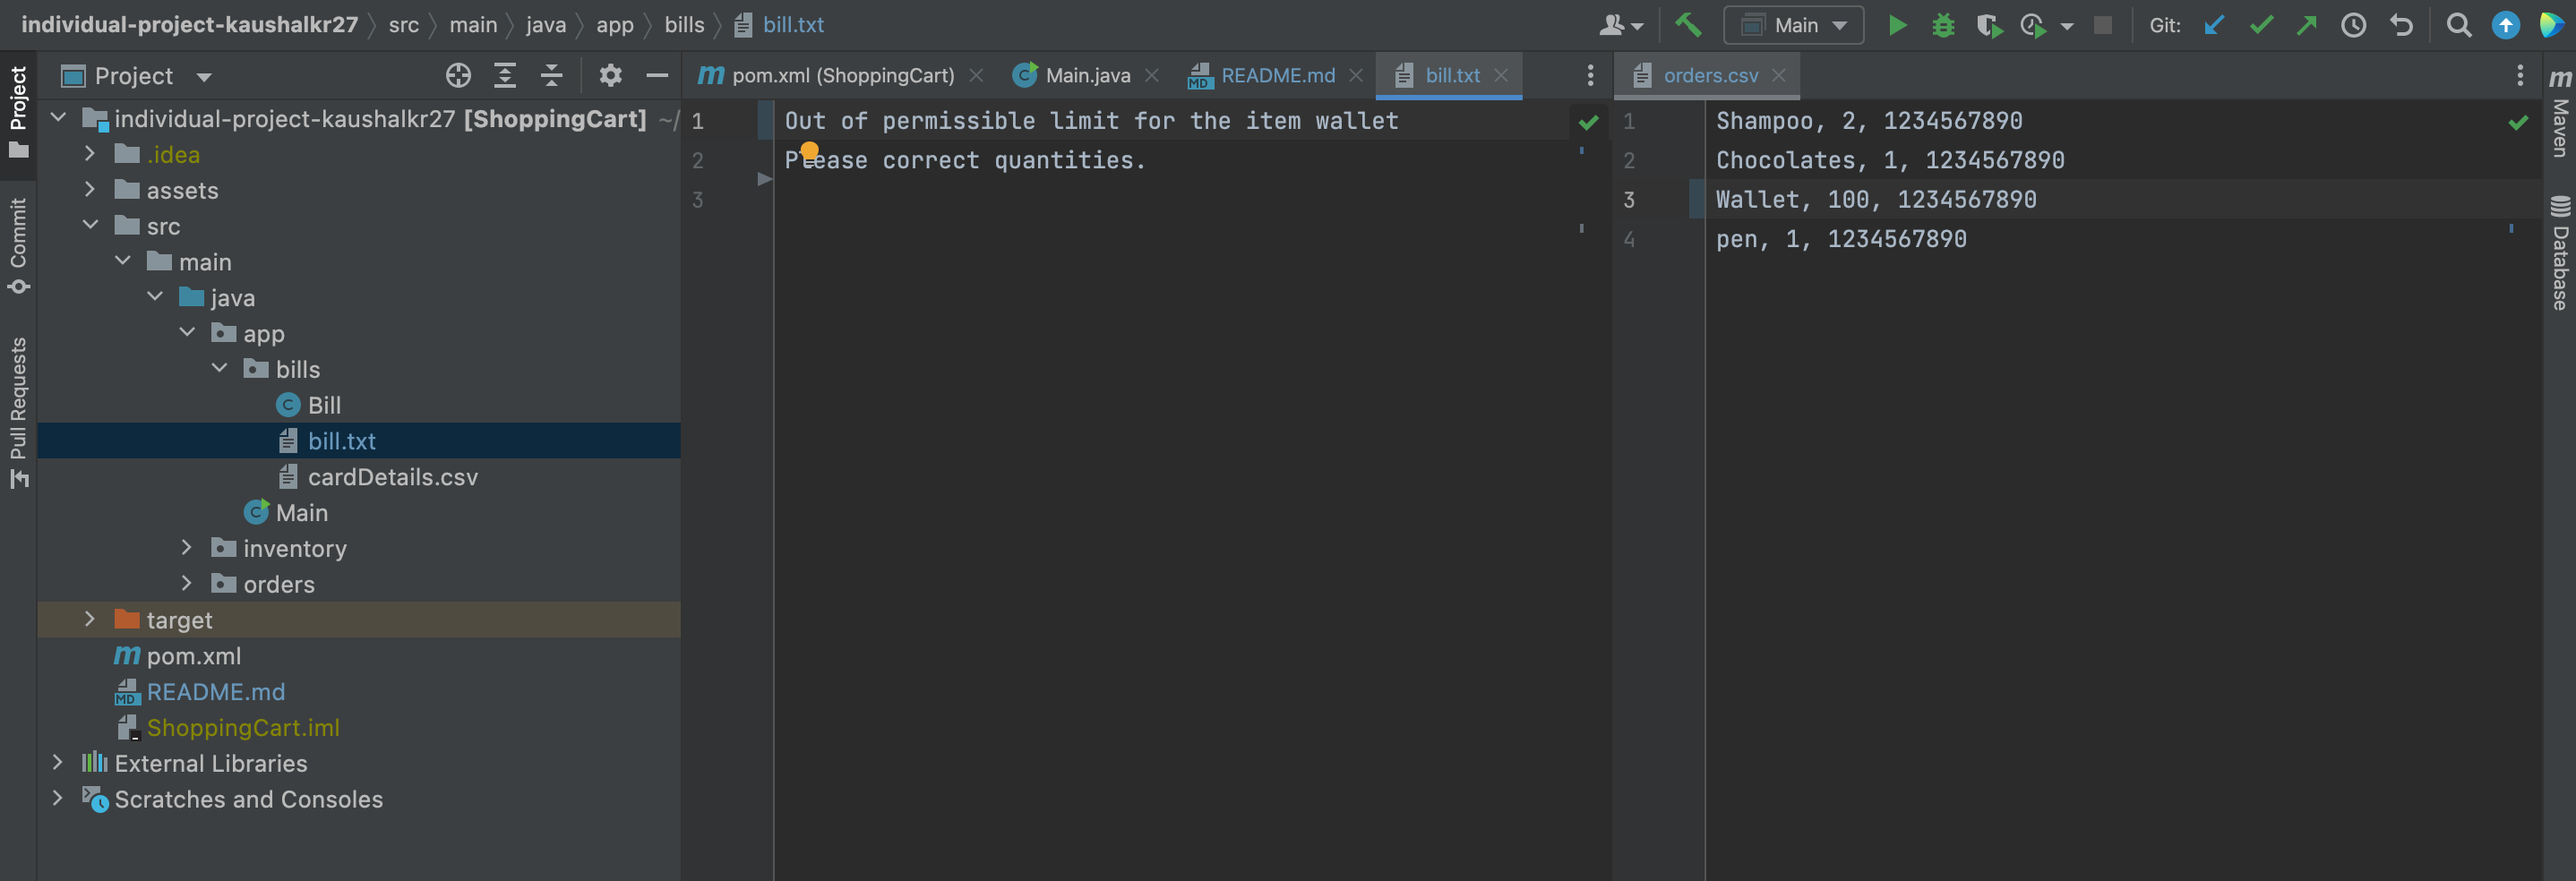
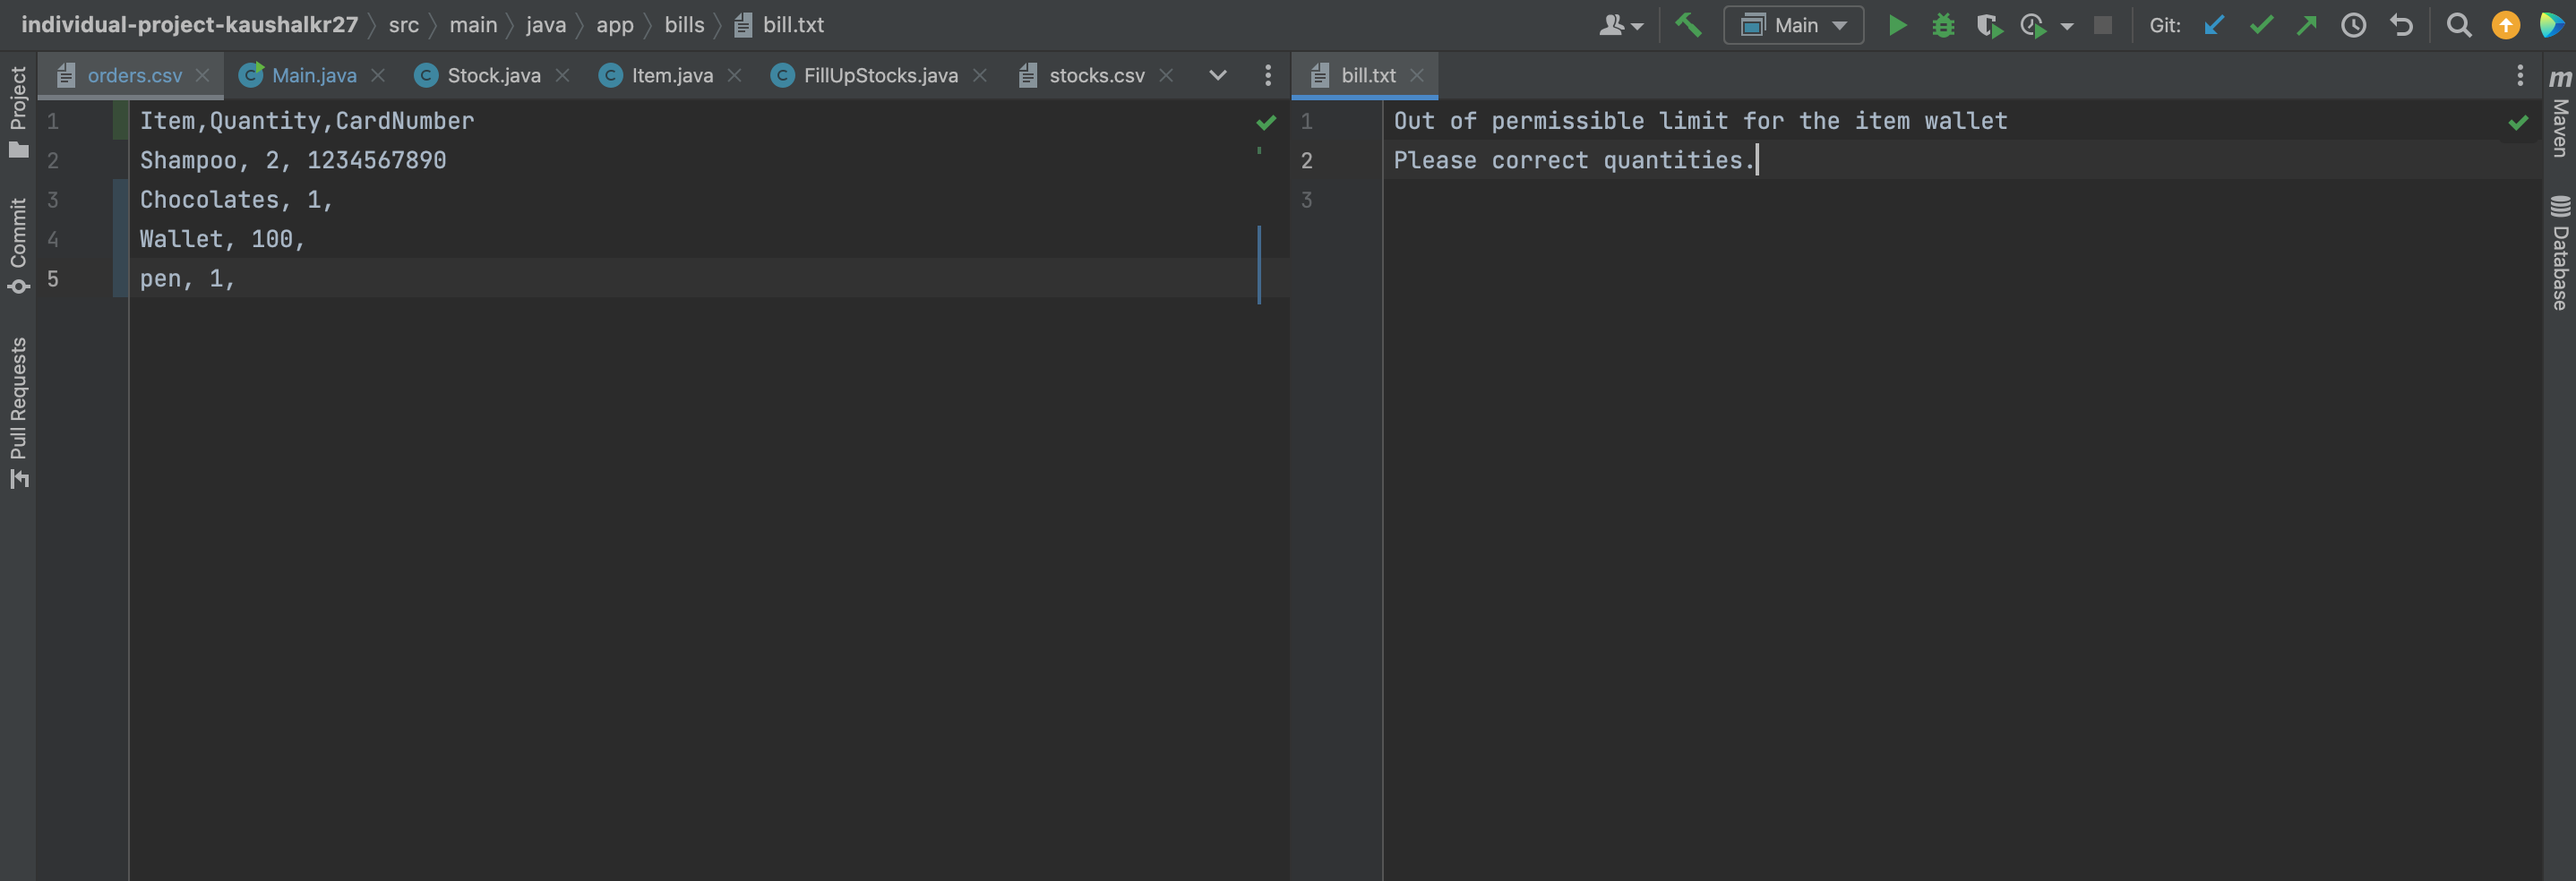
Final commit

Changed region(s): [[0.0, 0.061, 0.8046, 0.9146], [0.9593, 0.0, 0.9903, 0.061], [0.557, 0.1829, 0.588, 0.2134]]

diff --git a/src/main/java/app/Main.java b/src/main/java/app/Main.java
@@ -65,12 +65,22 @@ public class Main {
         for(Map.Entry<String, Double> entry : orderMap.entrySet()) {
             String key = entry.getKey();
             Double value = entry.getValue();
+            if(isOrderCorrect) {
+                totalBill.writeBill("Item, Quantity, Price");
+            }
             if(isOrderCorrect){
                 for(OrderItem item: orderItems){
-                    String out = item.getItem() + ", " + item.getQty();
+                    Item itemVal = miscGoods.get(item.getItem().toLowerCase());
+                    if(itemVal == null){
+                        itemVal = luxuryGoods.get(item.getItem().toLowerCase());
+                    }
+                    if(itemVal == null){
+                        itemVal = essentialsGoods.get(item.getItem().toLowerCase());
+                    }
+                    String out = item.getItem() + ", " + item.getQty() + ", " + itemVal.getPrice();
                     totalBill.writeBill(String.format(out));
                 }
-                totalBill.writeBill(String.format("Amount paid, %s", value));
+                totalBill.writeBill(String.format("Total Price: %s", value));
             }
             // do what you have to do here
             // In your case, another loop.

diff --git a/src/main/java/orders/Orders.java b/src/main/java/orders/Orders.java
@@ -18,13 +18,23 @@ public class Orders {
 
         String line = "";
         String splitBy = ",";
+        int lineNumber = 1;
+        String cardNumber = "";
 
         try(BufferedReader br = new BufferedReader(new FileReader(path))){
             List<Item> itemList = new ArrayList<>();
 
             while ((line = br.readLine()) != null){
                 String[] item = line.split(splitBy);
-                orderItems.add(new OrderItem(item[0].trim(), Integer.parseInt(item[1].trim()), item[2].trim()));
+                if(lineNumber!=1){
+                    if(item.length > 2){
+                        orderItems.add(new OrderItem(item[0].trim(), Integer.parseInt(item[1].trim()), item[2].trim()));
+                        cardNumber = item[2].trim();
+                    }else {
+                        orderItems.add(new OrderItem(item[0].trim(), Integer.parseInt(item[1].trim()), cardNumber));
+                    }
+                }
+                lineNumber++;
             }
         }
         catch (IOException e){
